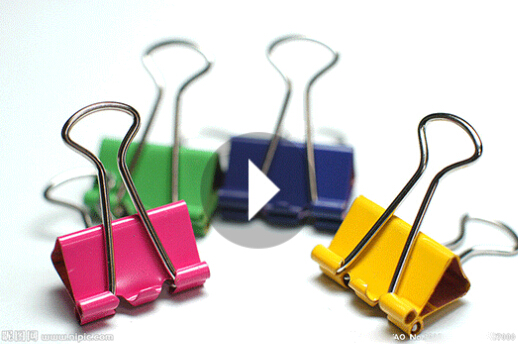
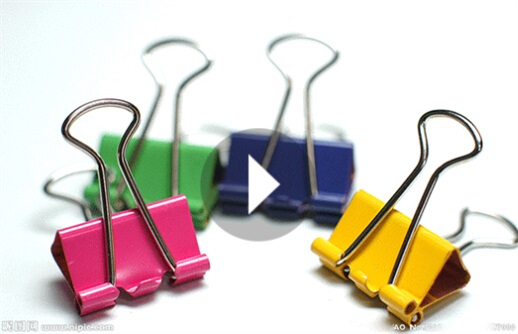
change video position

diff --git a/FourLevelHtml/kitchen-three.html b/FourLevelHtml/kitchen-three.html
@@ -9,18 +9,18 @@
     <style type="text/css">
         #wrapper {
             min-width: 1350px;
-            height: 1280px;
+            height: 1382px;
             background: url("../img/LifeFeel/bg7.jpg") no-repeat;
 
         }
         .header {
             width: 100%;
-            height: 13%;
+            height: 161px;
         }
         /*头部导航*/
         .header .nav {
             position: relative;
-            height: 80%;
+            height: 134px;
 
         }
         .user-position{
@@ -28,13 +28,13 @@
         }
         /*中间主要内容*/
         .main {
-            height: 79%;
-            padding-bottom: 3px;
+            position: relative;
+            height: 1021px;
         }
         .main .video{
             position: absolute;
-            top:300px;
-            left: 400px;
+            top:100px;
+            left: 280px;
         }
 
 

diff --git a/FourLevelHtml/office-room-one.html b/FourLevelHtml/office-room-one.html
@@ -29,13 +29,13 @@
         }
         /*中间主要内容*/
         .main {
-            height: 79%;
-            padding-bottom: 3px;
+            position: relative;
+            height: 1021px;
         }
         .main .video{
             position: absolute;
-            top:300px;
-            left: 400px;
+            top:100px;
+            left: 280px;
         }
 
 
